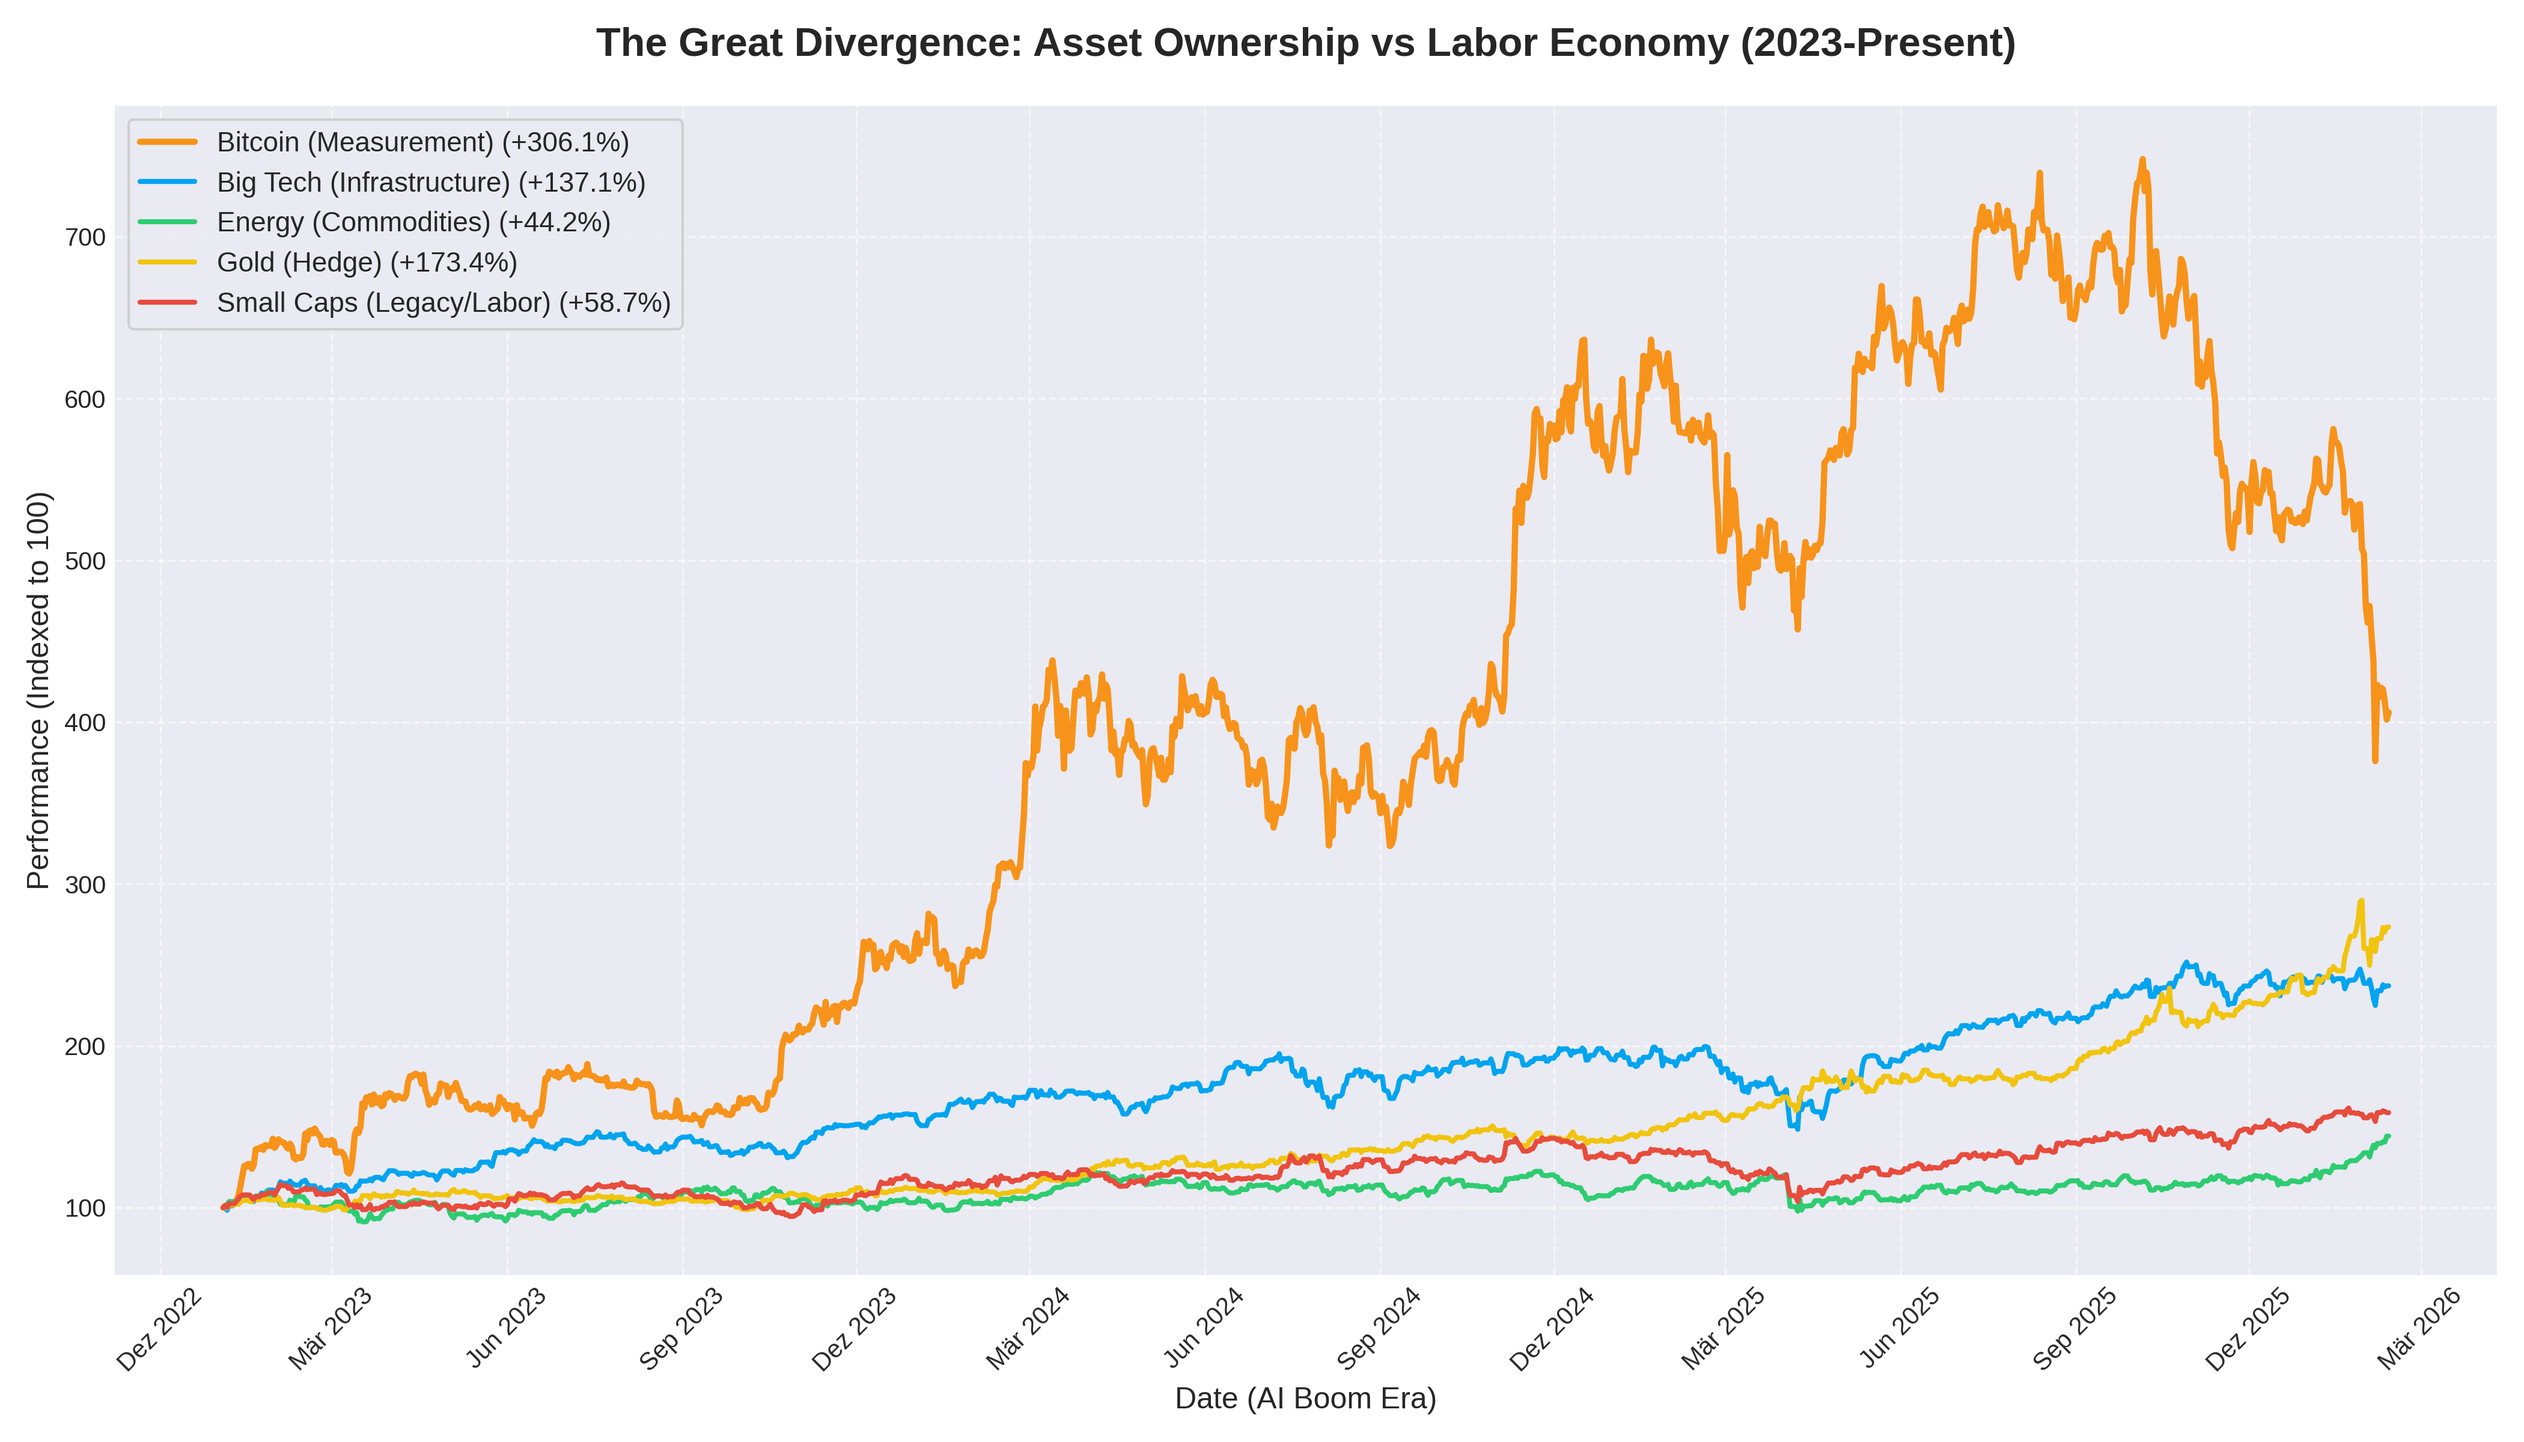
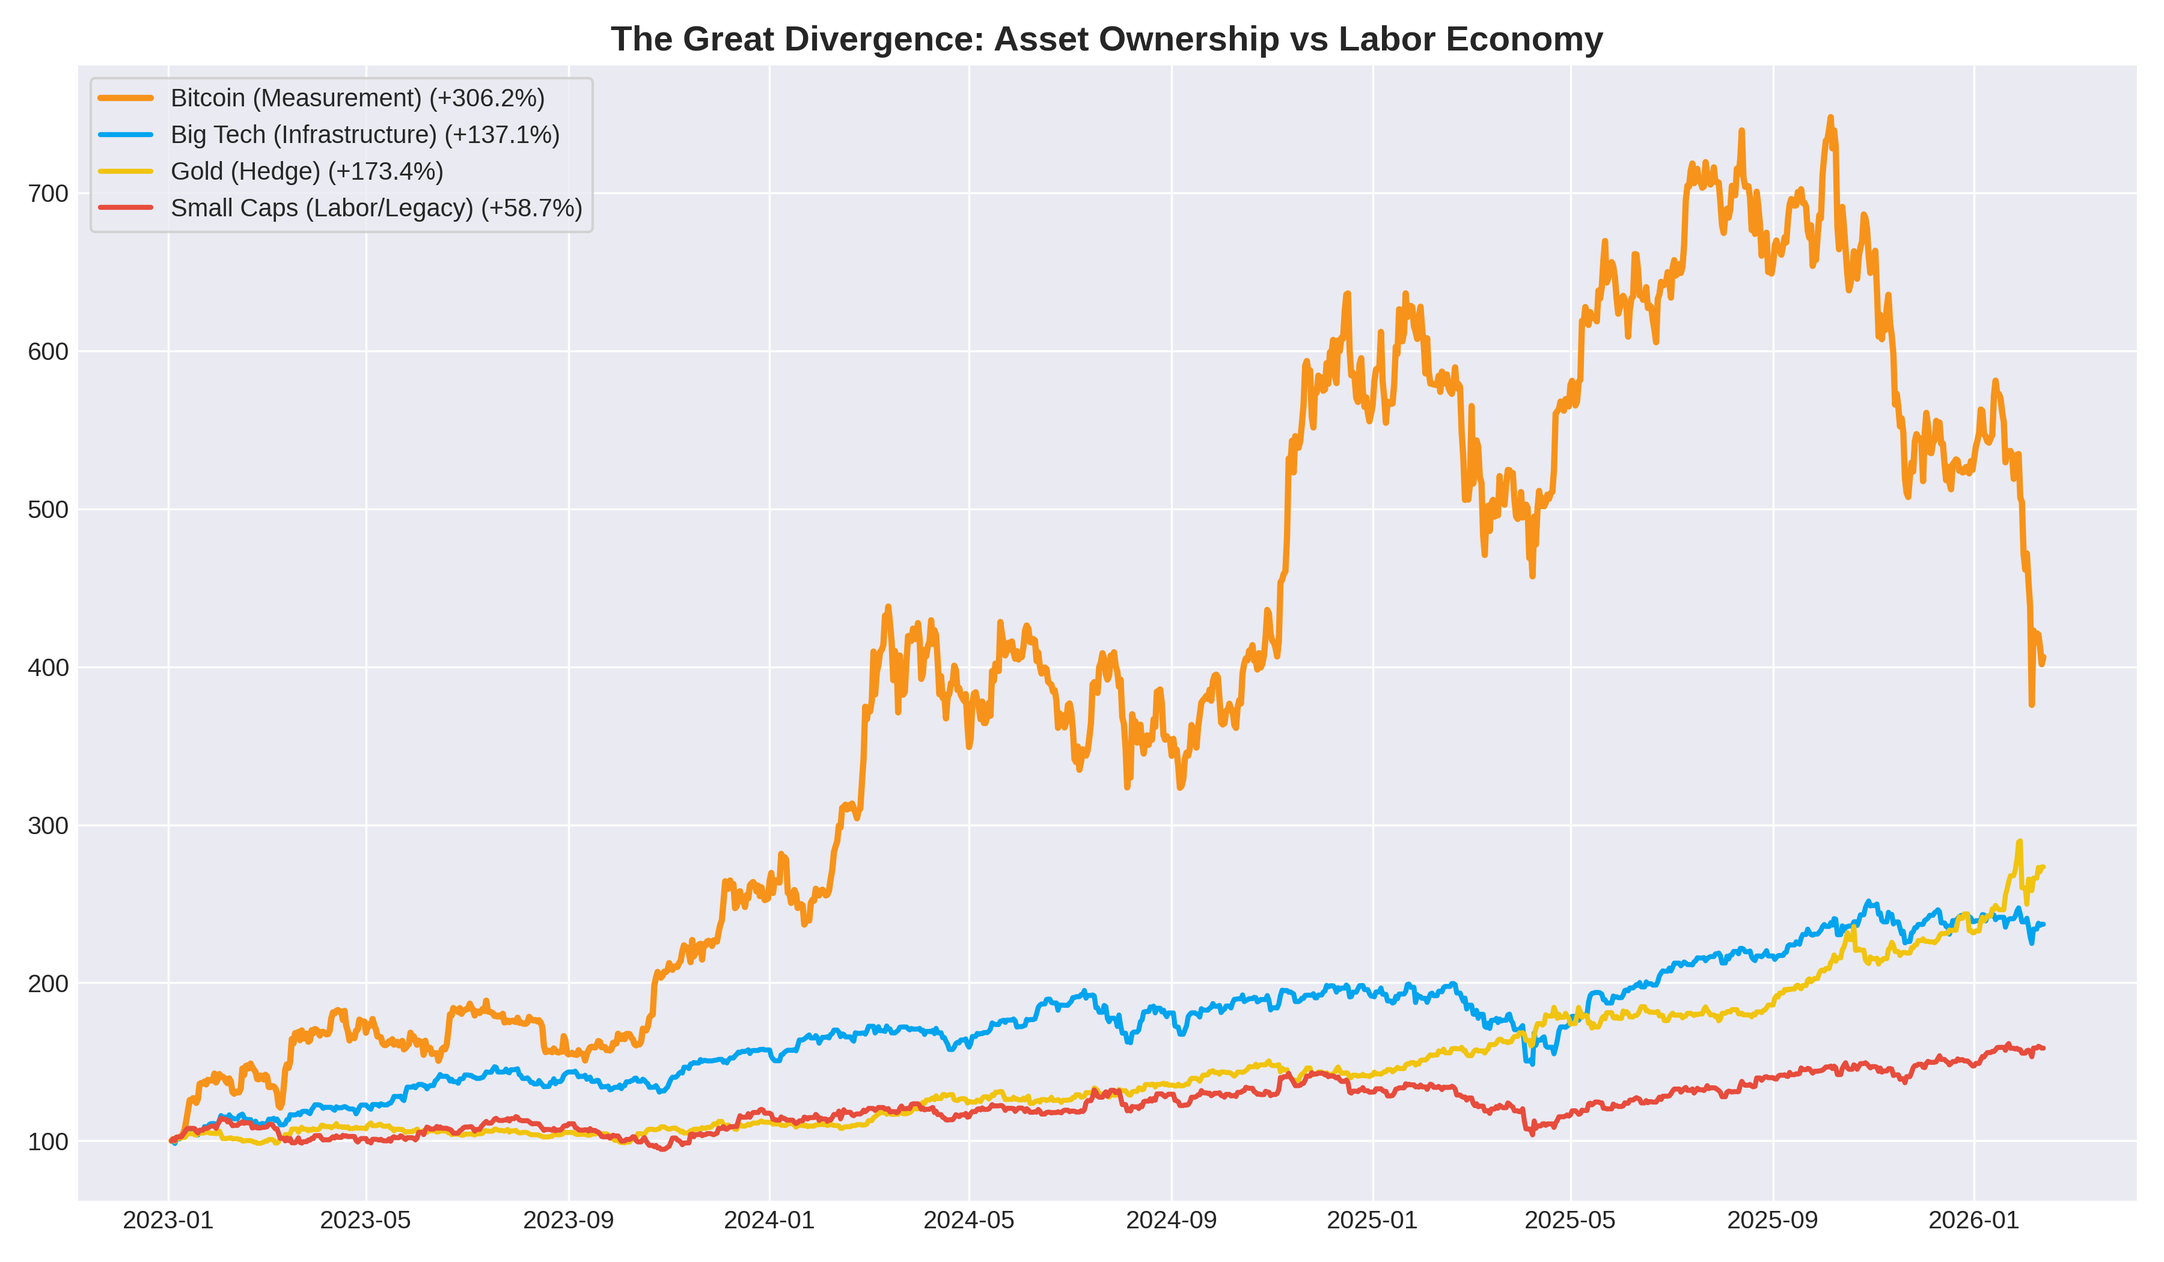
feat: Expand article with "SaaS Trap" and "Monetary Energy" concepts, adding new charts and supporting quotes.

diff --git a/KShapedSurvival/generate_charts.py b/KShapedSurvival/generate_charts.py
@@ -4,92 +4,80 @@ import matplotlib.pyplot as plt
 import matplotlib.dates as mdates
 import os
 
-# Tickers representing the "Survival Assets" vs the "Struggling Economy"
-tickers = {
-    'BTC-USD': 'Bitcoin (Measurement)',
-    'XLK': 'Big Tech (Infrastructure)',
-    'XLE': 'Energy (Commodities)',
-    'GLD': 'Gold (Hedge)',
-    'IWM': 'Small Caps (Legacy/Labor)'
-}
-
-# Start of the AI Boom (Approx Jan 2023)
-start_date = '2023-01-01'
-print(f"Fetching data from {start_date}...")
-
-# Fetch data
-data = yf.download(list(tickers.keys()), start=start_date)
-
-# Handle MultiIndex columns
-if isinstance(data.columns, pd.MultiIndex):
-    if 'Adj Close' in data.columns.get_level_values(0):
-        data = data['Adj Close']
-    elif 'Close' in data.columns.get_level_values(0):
-        data = data['Close']
-    else:
-        print("Error: Could not find Close price data.")
-        exit(1)
-elif 'Adj Close' in data.columns:
-    data = data['Adj Close']
-elif 'Close' in data.columns:
-    data = data['Close']
-
-# Handle NaN from different trading days (Stocks vs Crypto)
-# Crypto trades 24/7, stocks only on business days
-# Drop rows where everything is NaN (weekends/holidays) then ffill for stock-gaps on crypto-days
-data = data.dropna(how='all').ffill()
-
-# Drop the first few rows if they contain NaNs for stocks (e.g. holiday on Jan 1)
-# This ensures we rebase to a day where all tickers have data
-data = data.dropna()
-
-# Rebase to 100 for comparison
-normalized_data = (data / data.iloc[0]) * 100
-
-# Plotting
-plt.style.use('seaborn-v0_8-darkgrid')
-fig, ax = plt.subplots(figsize=(14, 8))
-
-# Define colors for the "Stay Meaningful" vs "Struggling" narrative
-colors = {
-    'BTC-USD': '#F7931A', # Bitcoin Orange
-    'XLK': '#00A4EF',     # Microsoft/Tech Blue
-    'XLE': '#2ECC71',     # Energy Green
-    'GLD': '#F1C40F',     # Gold
-    'IWM': '#E74C3C'      # Small Cap Red (The "Lower K")
-}
-
-for ticker, label in tickers.items():
-    ax.plot(normalized_data.index, normalized_data[ticker], 
-            label=f"{label} (+{normalized_data[ticker].iloc[-1]-100:.1f}%)", 
-            color=colors.get(ticker), 
-            linewidth=2.5 if ticker == 'BTC-USD' else 2)
-
-# Chart annotations
-ax.set_title("The Great Divergence: Asset Ownership vs Labor Economy (2023-Present)", fontsize=16, fontweight='bold', pad=20)
-ax.set_ylabel('Performance (Indexed to 100)', fontsize=12)
-ax.set_xlabel('Date (AI Boom Era)', fontsize=12)
-
-# Format Axis
-ax.xaxis.set_major_formatter(mdates.DateFormatter('%b %Y'))
-ax.xaxis.set_major_locator(mdates.MonthLocator(interval=3))
-plt.xticks(rotation=45)
-
-# Legend and Aesthetics
-ax.legend(fontsize=11, loc='upper left', frameon=True, framealpha=0.9)
-ax.grid(True, linestyle='--', alpha=0.6)
-
-# Save
+# Set output directory
 output_dir = 'assets'
 if not os.path.exists(output_dir):
     os.makedirs(output_dir)
 
-plt.tight_layout()
-save_path = os.path.join(output_dir, 'asset_divergence.png')
-plt.savefig(save_path, dpi=300)
-print(f"Chart saved to {save_path}")
+# Helper function to clean and normalize data
+def clean_and_normalize(df):
+    df = df.dropna(how='all').ffill().dropna()
+    return (df / df.iloc[0]) * 100
 
-print("\nFinal Performance Figures:")
-for ticker in tickers:
-    perf = normalized_data[ticker].iloc[-1] - 100
-    print(f"{ticker}: {perf:+.1f}%")
+# Chart 1: The Great Divergence (Survival Assets vs Labor Economy)
+print("Generating Chart 1: Asset Divergence...")
+tickers1 = {
+    'BTC-USD': 'Bitcoin (Measurement)',
+    'XLK': 'Big Tech (Infrastructure)',
+    'GLD': 'Gold (Hedge)',
+    'IWM': 'Small Caps (Labor/Legacy)'
+}
+data1 = yf.download(list(tickers1.keys()), start='2023-01-01')['Close']
+norm_data1 = clean_and_normalize(data1)
+
+plt.style.use('seaborn-v0_8-darkgrid')
+fig1, ax1 = plt.subplots(figsize=(12, 7))
+colors1 = {'BTC-USD': '#F7931A', 'XLK': '#00A4EF', 'GLD': '#F1C40F', 'IWM': '#E74C3C'}
+
+for t, label in tickers1.items():
+    ax1.plot(norm_data1.index, norm_data1[t], label=f"{label} (+{norm_data1[t].iloc[-1]-100:.1f}%)", 
+             color=colors1[t], linewidth=2.5 if t == 'BTC-USD' else 2)
+
+ax1.set_title("The Great Divergence: Asset Ownership vs Labor Economy", fontsize=14, fontweight='bold')
+ax1.legend(loc='upper left', frameon=True)
+plt.tight_layout()
+fig1.savefig(os.path.join(output_dir, 'asset_divergence.png'), dpi=300)
+
+# Chart 2: The SaaS Trap (Monopolies vs Small SaaS)
+print("Generating Chart 2: The SaaS Trap...")
+tickers2 = {
+    'XLK': 'Big Tech (The Infrastructure)',
+    'WCLD': 'Cloud/Small SaaS (The Trap)'
+}
+data2 = yf.download(list(tickers2.keys()), start='2023-01-01')['Close']
+norm_data2 = clean_and_normalize(data2)
+
+fig2, ax2 = plt.subplots(figsize=(12, 7))
+ax2.plot(norm_data2.index, norm_data2['XLK'], label=f"Big Tech (+{norm_data2['XLK'].iloc[-1]-100:.1f}%)", color='#00A4EF', linewidth=2.5)
+ax2.plot(norm_data2.index, norm_data2['WCLD'], label=f"Small SaaS (+{norm_data2['WCLD'].iloc[-1]-100:.1f}%)", color='#7f7f7f', linestyle='--')
+ax2.fill_between(norm_data2.index, norm_data2['WCLD'], norm_data2['XLK'], color='#00A4EF', alpha=0.1, label='The Automation Gap')
+
+ax2.set_title("The SaaS Trap: Winners vs The Replaced", fontsize=14, fontweight='bold')
+ax2.legend(loc='upper left')
+plt.tight_layout()
+fig2.savefig(os.path.join(output_dir, 'saas_trap.png'), dpi=300)
+
+# Chart 3: Fiat Debasement Proxy (Assets vs M2 Approximation)
+# We use GLD as a proxy for "Stable Value" to show how much more 'Energy' BTC/XLK capture
+print("Generating Chart 3: Capturing Monetary Energy...")
+tickers3 = {
+    'BTC-USD': 'Bitcoin',
+    'XLK': 'Big Tech',
+    'GLD': 'Gold (Monetary Baseline)',
+}
+data3 = yf.download(list(tickers3.keys()), start='2023-01-01')['Close']
+norm_data3 = clean_and_normalize(data3)
+
+fig3, ax3 = plt.subplots(figsize=(12, 7))
+ax3.plot(norm_data3.index, norm_data3['BTC-USD'], label='Bitcoin', color='#F7931A', linewidth=2.5)
+ax3.plot(norm_data3.index, norm_data3['XLK'], label='Big Tech (AI)', color='#00A4EF')
+ax3.axhline(100, color='black', linestyle='--', alpha=0.5, label='Original Capital')
+ax3.plot(norm_data3.index, norm_data3['GLD'], label='Gold (Store of Value)', color='#F1C40F', linestyle=':')
+
+ax3.set_title("Capturing Monetary Energy in the AI Era", fontsize=14, fontweight='bold')
+ax3.set_yscale('log') # Use log scale to show the magnitude of divergence
+ax3.legend(loc='upper left')
+plt.tight_layout()
+fig3.savefig(os.path.join(output_dir, 'monetary_energy.png'), dpi=300)
+
+print("\nAll charts generated in /assets/")

diff --git a/KShapedSurvival/ARTICLE.md b/KShapedSurvival/ARTICLE.md
@@ -2,9 +2,21 @@
 
 ## The AI Automation Dilemma
 
-In the era of artificial intelligence, the traditional economic paradigm is shifting at an unprecedented pace. Everything that can be automated, will be. From manual labor to complex SaaS operations and small creative agencies, the "middle" is being hollowed out. Unless you possess a hyper-niche that AI cannot easily replicate, the pressure of automation is a ticking clock. But even for those niches, it is largely a matter of time.
+In the era of artificial intelligence, the traditional economic paradigm is shifting at an unprecedented pace. Everything that can be automated, will be. From manual labor to complex SaaS operations and small creative agencies, the "middle" is being hollowed out. 
 
-This is the core of the **K-Shaped Economy**: a divergence where the owners of infrastructure and capital ascend, while those reliant on labor and outdated business models are left behind.
+> "Robots and computers will own any clearly bounded job, skill or game. Humans should focus on creative work... If they can train you to do it, then eventually they will train a computer to do it."
+> — **Naval Ravikant**
+
+Unless you possess a hyper-niche that AI cannot easily replicate, the pressure of automation is a ticking clock. This is the core of the **K-Shaped Economy**: a divergence where the owners of infrastructure and capital ascend, while those reliant on labor and outdated business models are left behind.
+
+Even in the technology sector, a sub-K-shape is forming. We call it the **SaaS Trap**.
+
+![The SaaS Trap](assets/saas_trap.png)
+
+While Big Tech (the infrastructure providers) captures the gains of automation, smaller SaaS companies and agencies are struggling to maintain margins as the "marginal cost of intelligence" drops toward zero.
+
+> "AI won't replace humans. But humans who use AI will replace those who don't."
+> — **Sam Altman**
 
 ## From Labor to Ownership
 
@@ -14,22 +26,28 @@ The future is not about work; it is about **ownership**. As the financial sector
 
 ### Assets That Survive
 
-To survive and thrive, you must own pieces of the infrastructure of the future. The following assets are positioned to grow as demand for reliable measurements and efficient energy increases:
+To survive and thrive, you must own pieces of the infrastructure of the future. 
 
-*   **Bitcoin**: The ultimate measurement instrument for the financial system. Its deflationary nature makes it the only hedge against a system that must print money to stay afloat.
-*   **Revenue-Sharing Protocols**: Stocks or crypto protocols that distribute actual earnings. In a world of automated profits, owning the stream is everything.
-*   **Major Infrastructure Equity**: Ownership in the companies that build and maintain the AI and hardware of the future.
-*   **Useful Commodities**: Metals and energy. Our entire technological and global system will rely on these resources forever. Demand will only increase.
+*   **Bitcoin**: The ultimate measurement instrument for the financial system. 
+*   **Revenue-Sharing Protocols**: Ownership in the automated profit streams of the future.
+*   **Major Infrastructure Equity**: Ownership in the companies building the world's AI hardware and energy grids.
+
+The goal is to capture "Monetary Energy" before it is debased by the system's need to print money to patch over the labor dilemma.
+
+![Capturing Monetary Energy](assets/monetary_energy.png)
+
+> "In the presence of rampant inflation, cash & credit become crumbling liabilities. Convert your balance sheet to #bitcoin to turn liabilities into assets."
+> — **Michael Saylor**
 
 ## The Strategy: Accumulation in a Tightening Market
 
-The issue is obvious: how do you accumulate these assets when the market is becoming increasingly hostile for Small and Medium Businesses (SMBs)?
+How do you accumulate these assets when the market is becoming increasingly hostile for Small and Medium Businesses (SMBs)?
 
-1.  **Invest Early and Often**: Do not wait for the "perfect" moment. Invest what you can afford, as early as you can, to benefit from the compounding value of these scarce assets.
-2.  **Work for the Non-Replaced... for Now**: If you must work for a living, target businesses that AI hasn't fully reached yet. Take those earnings and immediately pivot them into assets. 
-3.  **Join the Infrastructure Giants**: Work for the companies building the replacement tools. But be warned: even within these giants, employees are replaceable. The goal is to move from *employee* to *equity holder*.
-4.  **Identify Meaningful Protocols**: 99% of crypto will die. However, a few protocols will solve major global issues and remain meaningful—much like a handful of major stock companies dominate today.
+1.  **Invest Early and Often**: Do not wait. Benefit from the compounding value of scarce assets.
+2.  **Work for the Non-Replaced... for Now**: Pivot labor earnings immediately into ownership assets. 
+3.  **Join the Infrastructure Giants**: Move from *employee* to *equity holder* as quickly as possible.
+4.  **Identify Meaningful Protocols**: 99% of crypto will die. Identify the 1% that solves real-world issues.
 
 ## Conclusion
 
-The K-Shape is not a warning; it is our current reality. The goal is to accumulate as much capital as possible in the right buckets. In the automated future, your labor is a depreciating asset. Your ownership is your only true security.
+The K-Shape is not a warning; it is our current reality. In the automated future, your labor is a depreciating asset. Your ownership is your only true security.
